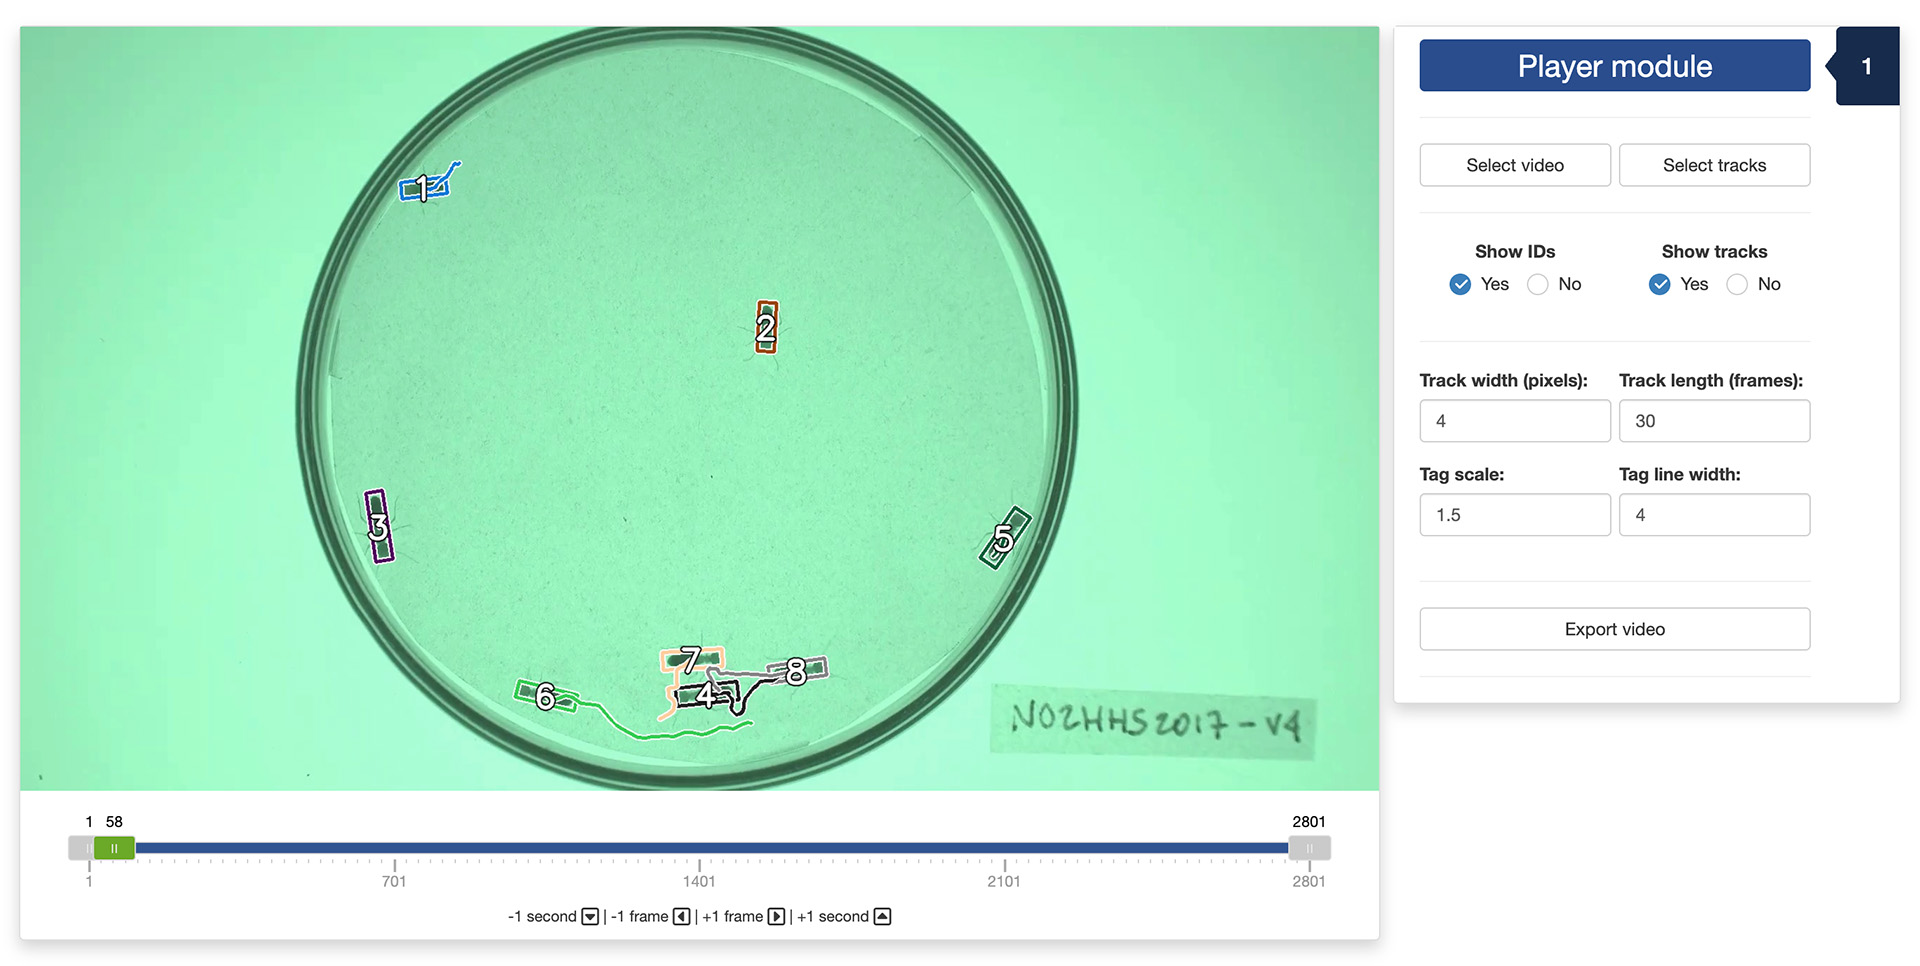
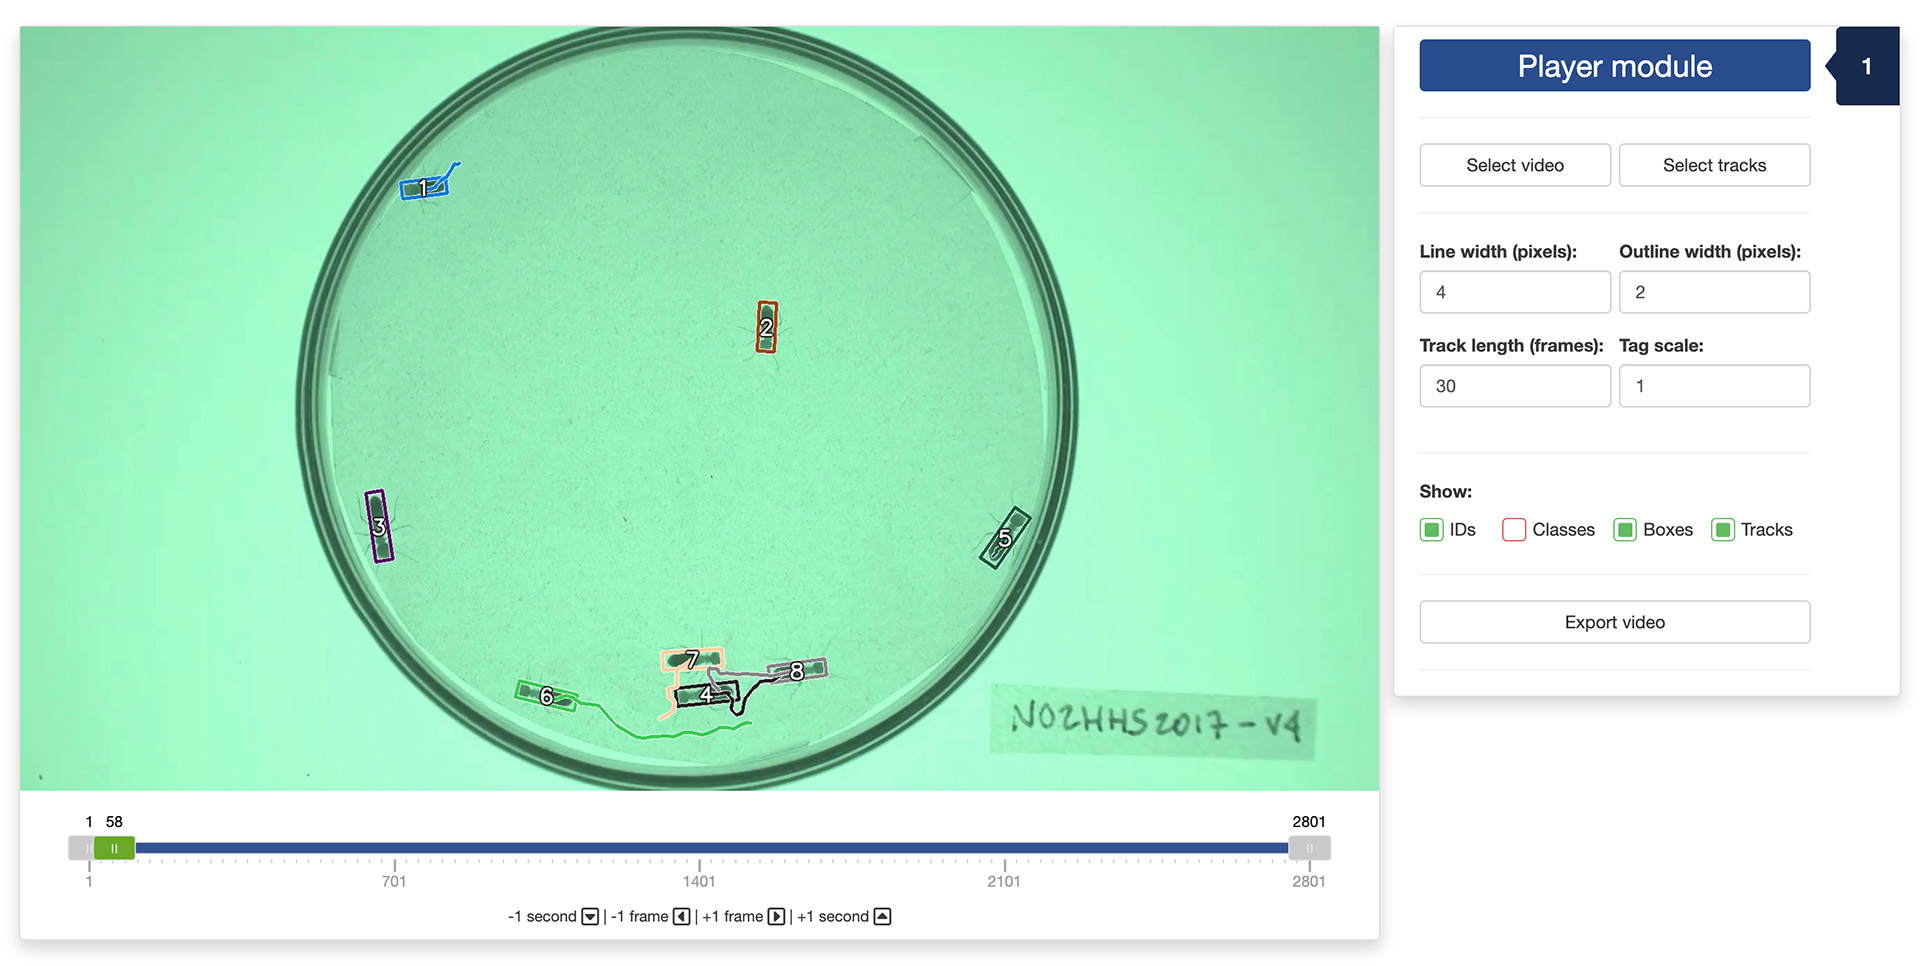
Deploying to gh-pages from @ swarm-lab/trackRcv@cac0dec2bee234e9210c944d9f62a4e491da1d62 🚀

diff --git a/articles/z2_tracking_objects.html b/articles/z2_tracking_objects.html
@@ -183,7 +183,7 @@
 <ul>
 <li>“Look back” controls how many past frames the tracking algorithm should take into account to associate each detected object to a track. This is a useful parameter to take into account if, for instance, the objects tend to disappear for a few frames from time to time.</li>
 <li>“Maximum distance” controls the maximum distance in pixels that an object can move between two frames to be still considered as belonging to the same track.</li>
-<li>“Preview tracks during tracking” controls whether a preview of the tracking results should be displayed during the tracking process. The preview shows 1 frame per second of the video with the trajectories overlaid on top. This will slow down a bit the tracking process, but this can be used to check that the tracking is working well when deciding on the right set of tracking parameters.</li>
+<li>“Preview tracks (slower)” controls whether a preview of the tracking results should be displayed during the tracking process. The preview shows 1 frame per second of the video with the trajectories overlaid on top. This will slow down a bit the tracking process, but this can be used to quickly check that the tracking is working well when deciding on the right set of tracking parameters.</li>
 </ul>
 <p><img src="images/z2_11.jpg" style="border-radius: 5px; border-style: groove;"></p>
 <p>Once all is set, you can finally click on the “Start tracking” button, set a file in the navigator that pops up to store the tracking data, and just let the app works its magic. The data will be saved as a CSV file and <a href="#output">the next section</a> will detail the content of this file.</p>
@@ -194,6 +194,7 @@
 <ul>
 <li>“frame” is the video frame number at which the measurements along the corresponding row have been made.</li>
 <li>“track” is the identity of the tracked object as estimated by the app.</li>
+<li>“class” is a column that is present for compatibility with <a href="https://swarm-lab.github.io/trackRai/" class="external-link">trackRai</a> and can be ignored when using trackRcv.</li>
 <li>“x” is the x coordinate of the object location in pixels in the context of the video frame. The origin is set at the top-left corner of the frame.</li>
 <li>“y” is the y coordinate of the object location in pixels in the context of the video frame. The origin is set at the top-left corner of the frame.</li>
 <li>“width” is the width in pixels of the object.</li>

diff --git a/articles/z4_visualizing_tracks.html b/articles/z4_visualizing_tracks.html
@@ -102,14 +102,14 @@
 </figure>
 </div>
 <p>You can navigate through the video by sliding the green tab along the timeline displayed below the video. You can also use the arrow keys on your keyboard to navigate through the video: the left and right arrows allow you to navigate frame by frame; the up and down arrows allow you to navigate one second at a time.</p>
-<p>Below the navigation controls, you will find two tick boxes. On the left, the “Show IDs” tick box allows you to show or hide the IDs of the tracked objects within the colored boxes delineating them. On the right, the “Show tracks” tick box allows you to show or hide the trajectories that the tracked objects have taken during a fixed number of frames.</p>
-<p>Below these tick boxes, you will find four numeric input fields:</p>
+<p>Below the navigation controls, you will find four numeric input fields:</p>
 <ul>
 <li><p>“Track width (pixels)” allows you to adjust the width of the lines delineating the tracked objects and representing their trajectories;</p></li>
 <li><p>“Track length (frames)” allows you to adjust the number of frames used to represent the trajectories of the tracked objects;</p></li>
 <li><p>“Tag scale” allows you to adjust the font size of the tags that represent the identities of the tracked objects;</p></li>
 <li><p>“Tag line width” allows you to adjust the font thickness of the tags.</p></li>
 </ul>
+<p>Below the input fields, you will find four tick boxes that will allow you to show/hide the ID number or the class of each object, the colored boxes delineating them, and the trajectories that the tracked objects have taken during a fixed number of frames.</p>
 <p>Finally, at the very bottom of the app window, the “Export video” button allows you to export the video with the tracked objects superimposed on it. After clicking this button, the app will prompt you to select a location to save the exported video. Once this is done, the export will start and the video will be saved in the selected location.</p>
 <hr>
 <p>The video used throughout this tutorial was provided by <em>Sridhar, V. H., Roche, D. G., and Gingins, S. (2019). Tracktor: Image-based automated tracking of animal movement and behaviour. Methods Ecol. Evol. 10, 691. doi:10.1111/2041-210X.13166</em> and used here with permission of the authors.</p>

diff --git a/articles/z3_fixing_tracks.html b/articles/z3_fixing_tracks.html
@@ -113,7 +113,7 @@
 <li>The “Save” button (or the “s” key of your keyboard) will save the modifications that you have made during the fixing session. These modifications are saved in a different file than the one containing the original tracking results to prevent accidental modifications to permanently damage the original results. The modified file will have the same name and be saved at the same location as the original file but with “_fixed” appended to its name. Note that if you interrupt your fixing session before the end of the video, you can resume it by loading the “[original_file_name]_fixed.csv” file instead of the original one. In this case, any new correction will also be saved to the “[original_file_name]_fixed.csv” file.</li>
 </ul>
 <p>Under these buttons, some basic statistics about the tracks are displayed below the fixing controls. These can be useful to track your progress during a fixing session. For instance, if the statistics table shows that your file contains 10 tracks but you know you only had 8 individuals in your experiment, this is a good indication that some errors remain to be fixed.</p>
-<p>Finally, at the very bottom of control panel, you can modify the “Tag scale” and “Tag line width” parameters to make the track tags more visible on the video.</p>
+<p>Finally, at the very bottom of control panel, you can modify the “Tag scale” and “Tag line width” parameters to make the track tags more visible on the video. You can also toggle the “Show IDs” and “Show boxes” buttons to show/hide the tags and boxes overlaid on top of the image. This can be useful when trying to tell apart objects that are very close to each other.</p>
 <hr></section><section class="level2"><h2 id="output">2. Output data<a class="anchor" aria-label="anchor" href="#output"></a>
 </h2>
 <p>Once you click the “Save” button in the app, the data that is saved in the “[original_file_name]_fixed.csv” file has the same columns has those saved originally by <code>trackR</code> (see <a href="z2_tracking_objects.html#output">here for more details</a>).</p>
